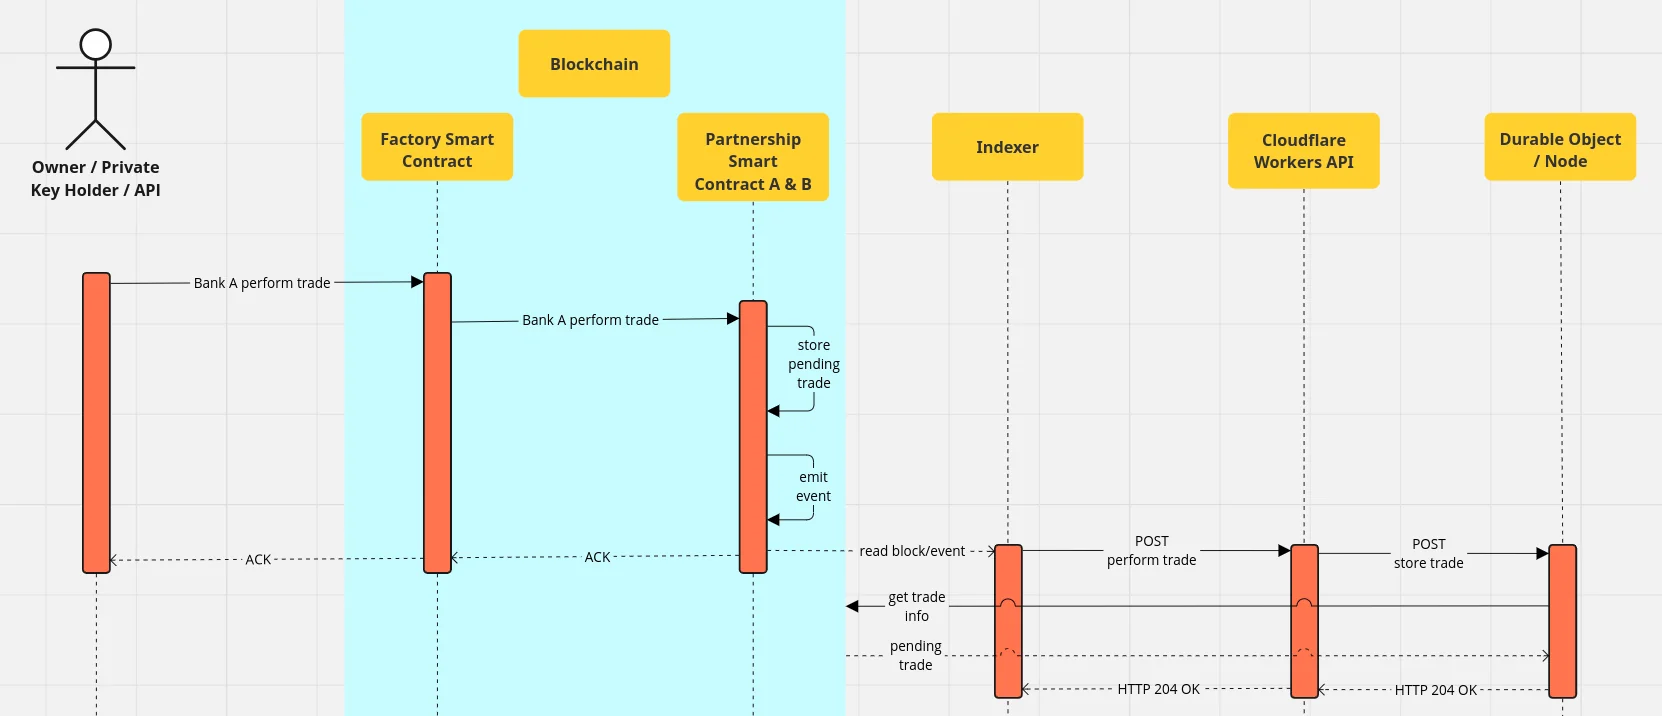
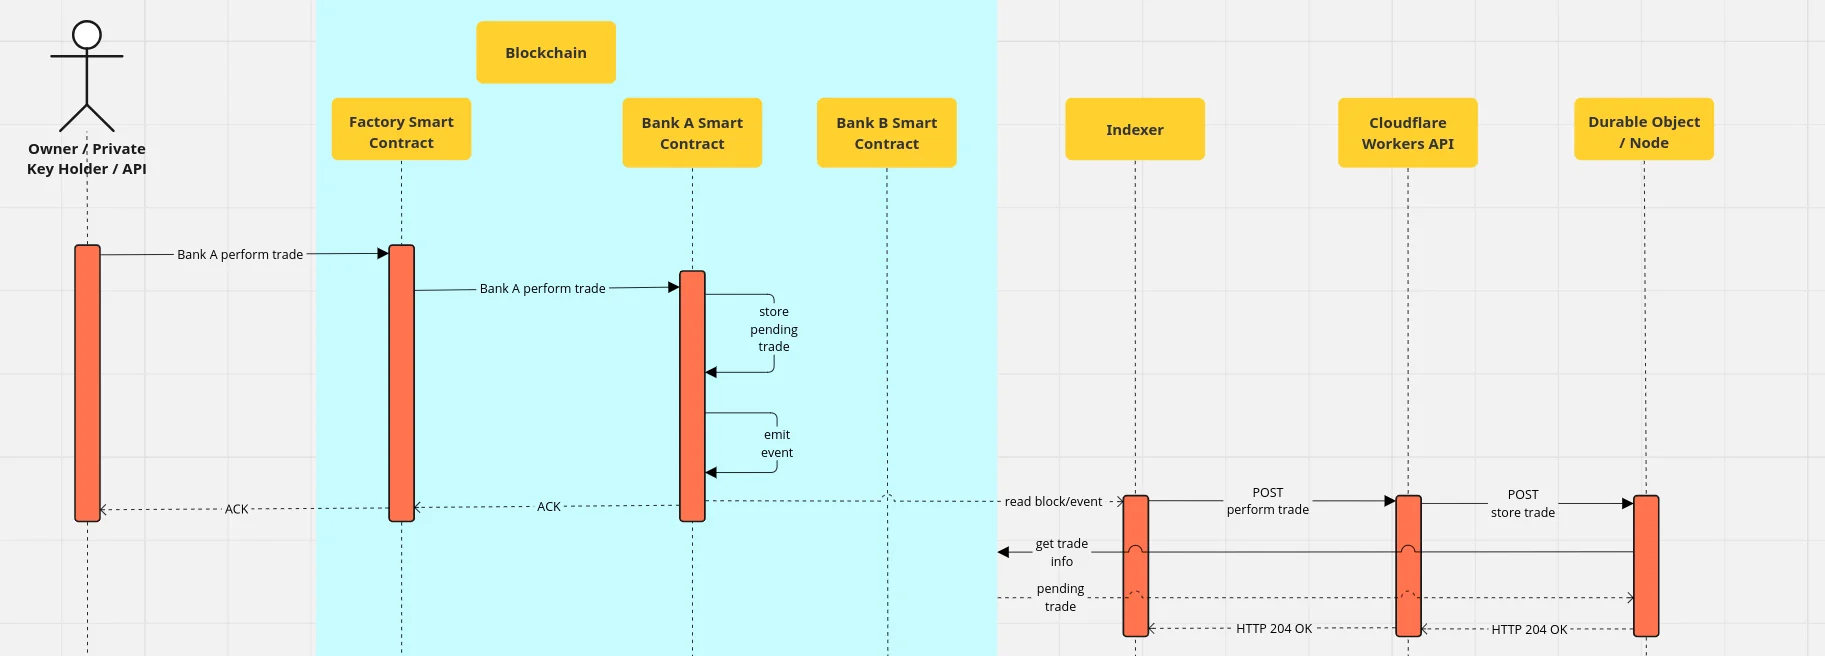
GITBOOK-8: finish base chapters and document one sc per bank

diff --git a/gitbook/actors/indexer.md b/gitbook/actors/indexer.md
@@ -1,6 +1,6 @@
 # 📖 Indexer
 
-The indexer is a program that watches and downloads the latest [blocks](../terminology.md#block) of the blockchain. It then goes through all transactions that are tracked inside these blocks and checks for occurrences of [FSC](factory-smart-contract.md) or [PSC](partnership-smart-contract.md) function calls.\
+The indexer is a program that watches and downloads the latest [blocks](../terminology.md#block) of the blockchain. It then goes through all transactions that are tracked inside these blocks and checks for occurrences of [FSC](factory-smart-contract.md) or [PSC](bank-smart-contract.md) function calls.\
 \
 The indexer is built on top of the [Near Lake Framework](https://docs.near.org/tools/near-lake). The way it works is that a trusted entity ([Pagoda](https://www.pagoda.co/) in this case) hosts a [node](../terminology.md#node) of the blockchain, which downloads all the block data. This data will then be uploaded to an Amazon Web Services S3 bucket, where they can be downloaded by applications, that use the Near Lake Framework.
 
@@ -10,11 +10,11 @@ The indexer initially only tracks the FSC and watches for [event](../terminology
 #[near_bindgen(event_json(standard = "rtp"))]
 pub enum RtpEvent {
     #[event_version("1.0.0")]
-    NewPartnership { partnership_id: String },
+    NewBank { bank: String, bank_id: String },
     #[event_version("1.0.0")]
     SendTrade {
         partnership_id: String,
-        bank: String,
+        bank_id: String,
         trade: TradeDetails,
     },
     #[event_version("1.0.0")]
@@ -23,9 +23,16 @@ pub enum RtpEvent {
         trade_id: String,
         deal_status: DealStatus,
     },
+    #[event_version("1.0.0")]
+    ConfirmPayment {
+        partnership_id: String,
+        bank_id: String,
+        trade_id: String,
+        confirmation: PaymentConfirmation,
+    },
 }
 ```
 
-When an `RtpEvent::NewPartnership` event has been emitted, the indexer will also keep track of the resulting PSC function calls.
+When an `RtpEvent::NewBank` event has been emitted, the indexer will also keep track of the resulting BSC function calls.
 
-When an `RtpEvent::SendTrade` or `RtpEvent::SettleTrade` event was found it will be sent to the [Cloudflare Workers API](cloudflare-workers-api.md), where trades will be processed and matched.
+When an `RtpEvent::SendTrade`, `RtpEvent::SettleTrade` or `RtpEvent::ConfirmPayment` event was found it will be sent to the [Cloudflare Workers API](cloudflare-workers-api.md), where trades will be processed and matched.

diff --git a/gitbook/actors/factory-smart-contract.md b/gitbook/actors/factory-smart-contract.md
@@ -8,18 +8,19 @@ The FSC is described by the following interface. SCs on Near Protocol are genera
 trait Contract {
     fn store_contract(&mut self);
     
-    fn create_partnership(&mut self, bank_a: String, bank_b: String);
+    fn create_bank(&mut self, bank: String);
 
     fn perform_trade(
         &mut self,
-        bank: String,
-        partnership_id: String,
+        bank_id: String,
         trade_details: TradeDetails,
     );
     
     fn settle_trade(
         &mut self,
         partnership_id: String,
+        bank_a_id: String,
+        bank_b_id: String,
         trade_id: String,
         deal_status: DealStatus,
     );
@@ -51,8 +52,8 @@ The FSC serves as a "factory" to deploy Partnership Smart Contracts (PSCs). By d
 
 The `store_contract` function is used to initialize the FSC by storing the raw bytes of a PSC. These bytes are necessary to deploy a new instance of a PSC and must be called after the FSC has been deployed.
 
-The `create_partnership` function can be called to deploy a new PSC. Every PSC is deployed on a newly created [sub-address](../terminology.md#addresses) of the FSC, where the prefix is calculated by hashing a tuple of Bank A and Bank B's name using the default Rust hashing algorithm.
+The `create_bank` function can be called to deploy a new BSC. Every BSC is deployed on a newly created [sub-address](../terminology.md#addresses) of the FSC, where the prefix is calculated by hashing the Bank's name using the default Rust hashing algorithm.
 
-The `perform_trade` function can be called to send trade information to the respective PSC with `partnership_id`. The trade will be stored in the respective PSC and processed further by the off-chain systems.
+The `perform_trade` function can be called to send trade information to the respective BSC with `bank_id`. The trade will be stored in the respective BSC and processed further by the off-chain systems.
 
 The `settle_trade` function can be called to change the status of a trade to either be confirmed, rejected or executed. Trades are matched by the off-chain system and no matching happens during Smart Contract execution.

diff --git a/gitbook/scenarios/performing-a-trade.md b/gitbook/scenarios/performing-a-trade.md
@@ -1,7 +1,24 @@
 # Performing a Trade
 
-Lorem ipsum
+To perform a trade between two Banks A & B, it is assumed that the respective [BSCs](../actors/bank-smart-contract.md) are already deployed. Afterwards both Bank A & B perform a trade between each other. Starting with Bank A following steps are performed:
+
+1. Owner sends transaction to [FSC](../actors/factory-smart-contract.md) on blockchain to perform trade for Bank A.
+2. FSC sends transaction to BSC for Bank A to perform trade.
+3. BSC stores trade as pending and emits [event](../terminology.md#events).
+4. Indexer downloads the [block](../terminology.md#block) including this event and notifies [CW API](../actors/cloudflare-workers-api.md).
+5. CW API checks, if counterparty trade exists on the BSC for Bank B. No trade exists, so nothing happens.
 
 <figure><img src="../.gitbook/assets/rtp-perform-trade-0.webp" alt=""><figcaption><p>RTP - perform trade Bank A</p></figcaption></figure>
+
+Afterwards Bank B also sends a trade to RTP:
+
+1. Owner sends transaction to [FSC](../actors/factory-smart-contract.md) on blockchain to perform trade for Bank B.
+2. FSC sends transaction to BSC for Bank B to perform trade.
+3. BSC stores trade as pending and emits [event](../terminology.md#events).
+4. Indexer downloads the [block](../terminology.md#block) including this event and notifies [CW API](../actors/cloudflare-workers-api.md).
+5. CW API checks, if counterparty trade exists on the BSC for Bank A. Trade exists.
+6. Check if trade data of Bank B matches the counterparty trade of Bank A.
+7. Send transaction to FSC to settle trade between Bank A & B.
+8. FSC sends transactions to respective BSCs of Bank A & B to settle trade.
 
 <figure><img src="../.gitbook/assets/rtp-perform-trade-1.webp" alt=""><figcaption><p>RTP - perform trade Bank B</p></figcaption></figure>

diff --git a/gitbook/actors/cloudflare-workers-api.md b/gitbook/actors/cloudflare-workers-api.md
@@ -1,3 +1,7 @@
 # ⚙ Cloudflare Workers API
 
-[Cloudflare Workers](https://workers.cloudflare.com/) (CW) is an edge & serverless computing platform developed and hosted by Cloudflare at its distributed computing network. The serverless approach allows developers to not have to maintain their own servers. The underlying infrastructure does not need any maintenance and scaling on high traffic is done automatically.
+[Cloudflare Workers](https://workers.cloudflare.com/) (CW) is an edge & serverless computing platform developed and hosted by Cloudflare at its distributed computing network. The serverless approach allows developers to not have to maintain their own servers. The underlying infrastructure does not need any maintenance. Furthermore scaling on high traffic is done automatically.
+
+CW has built in methods to spin up computing nodes (called [Durable Objects](https://developers.cloudflare.com/durable-objects/)), that can both be used to run computations and store private and consistent data on a unique location world wide. A node will be automatically spun up, when a request has been sent and it will automatically be put into sleep mode when no new requests arrive after a short time frame.
+
+CW nodes can be configured to be GDPR compliant by [setting the location to a specific jurisdiction](https://developers.cloudflare.com/durable-objects/platform/data-location).

diff --git a/gitbook/actors/bank-smart-contract.md b/gitbook/actors/bank-smart-contract.md
@@ -1,0 +1,7 @@
+# 🏦 Bank Smart Contract
+
+A Bank Smart Contract (BSC) is deployed by the [FSC](factory-smart-contract.md) and can never be interacted with directly. Only the FSC has allowance to call functions of a BSC, which is enforced by code. There exist no [access keys](../terminology.md#access-keys) for a BSC.
+
+When a new partnership between two Banks is established it will be checked whether a Bank already has a deployed BSC. If not a new instance of a BSC will be deployed to a [sub-address](../terminology.md#addresses) of the FSC, where the prefix is calculated by hashing the Bank's name using the default Rust hashing algorithm.
+
+Every Bank has its own BSC which holds all trade data, thus all data is separated. The counterparty for every trade can be recognized by the respective `counterparty` field

diff --git a/gitbook/scenarios/new-bank.md b/gitbook/scenarios/new-bank.md
@@ -1,0 +1,11 @@
+# New Bank
+
+For a new Bank to be registered in the system following steps need to be executed:
+
+1. Owner sends transaction to [FSC](../actors/factory-smart-contract.md) on blockchain to deploy new [BSC](../actors/bank-smart-contract.md).
+2. FSC checks, if BSC is already deployed. If not, deploy it and call initialization function of BSC.
+3. Once this transaction is confirmed, an [event](../terminology.md#events) will be emitted, that a new BSC has been deployed.
+4. Indexer downloads the [block](../terminology.md#block) including this event and notifies [CW API](../actors/cloudflare-workers-api.md).
+5. CW API stores bank internally.
+
+<figure><img src="../.gitbook/assets/rtp-new-bank.webp" alt=""><figcaption><p>RTP - new bank</p></figcaption></figure>

diff --git a/gitbook/SUMMARY.md b/gitbook/SUMMARY.md
@@ -8,7 +8,7 @@
 * [Overview](actors/overview.md)
 * [🔑 Owner](actors/owner.md)
 * [🏭 Factory Smart Contract](actors/factory-smart-contract.md)
-* [🤝 Partnership Smart Contract](actors/partnership-smart-contract.md)
+* [🏦 Bank Smart Contract](actors/bank-smart-contract.md)
 * [📖 Indexer](actors/indexer.md)
 * [⚙ Cloudflare Workers API](actors/cloudflare-workers-api.md)
 
@@ -16,5 +16,5 @@
 
 * [Overview](scenarios/overview.md)
 * [Initialization](scenarios/initialization.md)
-* [New Partnership](scenarios/new-partnership.md)
+* [New Bank](scenarios/new-bank.md)
 * [Performing a Trade](scenarios/performing-a-trade.md)

diff --git a/gitbook/scenarios/overview.md b/gitbook/scenarios/overview.md
@@ -1,13 +1,15 @@
 # Overview
 
-Lorem ipsum
+To get a better understanding of how the RTP PoC works, following scenarios are described in more detail.
+
+***
 
 {% content-ref url="initialization.md" %}
 [initialization.md](initialization.md)
 {% endcontent-ref %}
 
-{% content-ref url="new-partnership.md" %}
-[new-partnership.md](new-partnership.md)
+{% content-ref url="new-bank.md" %}
+[new-bank.md](new-bank.md)
 {% endcontent-ref %}
 
 {% content-ref url="performing-a-trade.md" %}

diff --git a/gitbook/actors/overview.md b/gitbook/actors/overview.md
@@ -10,8 +10,8 @@ The RTP PoC solution consists of various actors, that interact with each other. 
 [factory-smart-contract.md](factory-smart-contract.md)
 {% endcontent-ref %}
 
-{% content-ref url="partnership-smart-contract.md" %}
-[partnership-smart-contract.md](partnership-smart-contract.md)
+{% content-ref url="bank-smart-contract.md" %}
+[bank-smart-contract.md](bank-smart-contract.md)
 {% endcontent-ref %}
 
 ***

diff --git a/gitbook/scenarios/initialization.md b/gitbook/scenarios/initialization.md
@@ -1,6 +1,6 @@
 # Initialization
 
-Lorem ipsum
+During initialization the raw WebAssembly data for the [BSC](../actors/bank-smart-contract.md) needs to be stored in the [FSC](../actors/factory-smart-contract.md). Before initialization all BSC deployments will fail.
 
 <figure><img src="../.gitbook/assets/rtp-init.webp" alt=""><figcaption><p>RTP - Smart Contract initialization</p></figcaption></figure>
 
